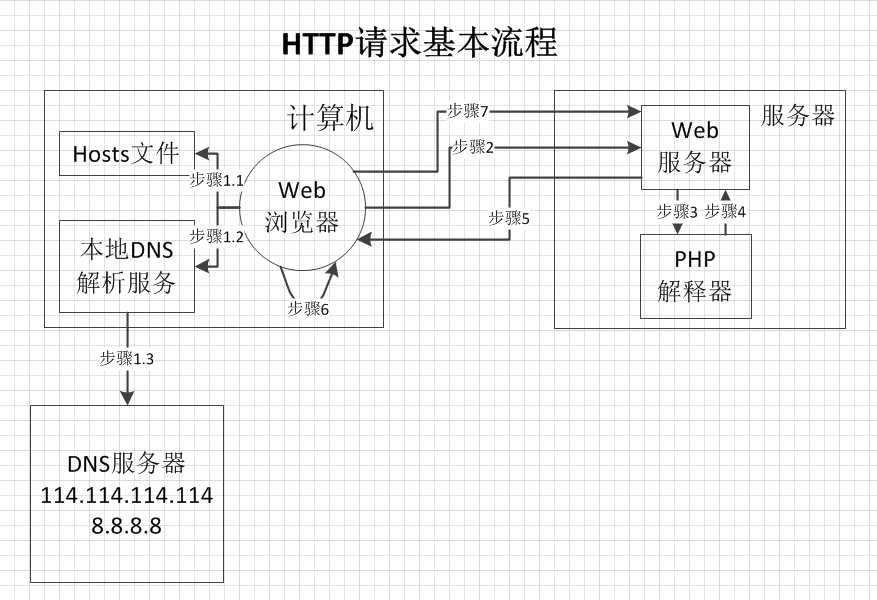
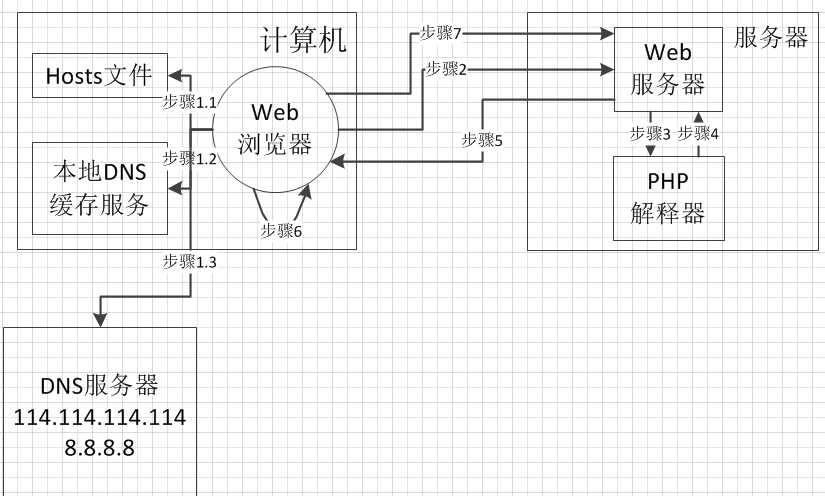
add

Changed region(s): [[0.0, 0.0, 1.0, 1.0], [0.8182, 0.756, 1.0, 0.877], [0.8182, 0.9073, 1.0, 0.998]]

diff --git a/Adapter0-初识编程/第8节  零基础学习PHP编程--基本概念详解之一——域名解析与DNS缓存.md b/Adapter0-初识编程/第8节  零基础学习PHP编程--基本概念详解之一——域名解析与DNS缓存.md
@@ -1,0 +1,125 @@
+基本概念详解一--域名解析与DNS缓存
+
+
+----------
+
+> 注意： 本文主要介绍了域名解析流程。
+
+> [访问源站](http://www.araryun.com "访问源站")
+
+> [转载请注明](http://www.araryun.com "转载请注明")
+
+----------
+
+
+一、 DNS是什么？
+
+DNS（Domain Name System，域名系统），万维网上作为域名和IP地址相互映射的一个分布式数据库，能够使用户更方便的访问互联网，而不用去记住能够被机器直接读取的IP数串。通过域名，最终得到该域名对应的IP地址的过程叫做域名解析（或主机名解析）。DNS协议运行在UDP协议之上，使用端口号53。在RFC文档中RFC 2181对DNS有规范说明，RFC 2136对DNS的动态更新进行说明，RFC 2308对DNS查询的反向缓存进行说明。
+
+DNS协议是应用层协议，事实上他是为其他应用层协议工作的，包括不限于HTTP和SMTP以及FTP，用于将用户提供的主机名解析为ip地址。
+
+
+域名是什么
+
+域名（英语：Domain Name），简称域名、网域，是由一串用点分隔的名字组成的Internet上某一台计算机或计算机组的名称，用于在数据传输时标识计算机的电子方位（有时也指地理位置）
+
+例如，www.wikipedia.org是一个域名，和IP地址208.80.152.2相对应。DNS就像是一个自动的电话号码簿，我们可以直接拨打wikipedia的名字来代替电话号码（IP地址）。我们直接调用网站的名字以后，DNS就会将便于人类使用的名字（如www.wikipedia.org）转化成便于机器识别的IP地址（如208.80.152.2）。
+
+
+域名划分
+
+顶级域名又称为根域名、一级域名、裸域名，一级域名中只含有一个“.”，且“.”左边要有内容字段。最后一个点的右边被称为一级域名，左边被称为二级域名，以此类推二级三级域名，一级域名又被称为顶级域名。
+
+顶级域名后缀列表：
+
+	.com：表示商业机构
+	.top：表示顶级、高端、事业突破
+	.xyz：表示创意创新、三维空间、无极限
+	.cx：表示创新、诚信
+	.red：表示吉祥、热情、勤奋
+	.net：表示网络服务机构
+	后缀名
+	后缀名
+	.org：表示非营利性组织
+	.gov：表示政府机构
+	.edu：表示教育机构
+	.mil：表示军事机构
+	.biz：表示商业机构
+	.name:表示个人网站
+	.info:表示信息提供
+	.mobi:专用手机域名
+	.国家缩写(如.cn):表示国家内部企业或个人
+
+
+二、 浏览器发送Http请求时的域名解析过程
+
+1、浏览器检查缓存中有没有该域名对应的IP地址，如果缓存中存在解析值，则直接将该IP返回
+
+2、如果浏览器缓存中没有，则去操作系统的DNS缓存服务中查找，再去hosts文件中查找
+
+3、如果操作系统缓存中没有 去local DNS Server（LDNS）本地DNS服务器中去找（比如 学校、小区里的互联网服务提供商电信联通的DNS服务器）
+
+4、若LDNS没有命中，去Root Server DNS服务器 根域名服务器中找
+
+5、返回给LDNS一个所查询域的主域名服务器地址gTLD Server(国际顶级域名服务器)如com、cn、org
+
+6、LDNS向gTLD发送请求
+
+7、gTLD返回给域名对应的Name Server
+
+8、Name Server（就是你注册的域名服务器）查询域名对应的IP 连同TTL值（缓存的时间由TTL值控制）返回给LDNS
+
+9、LNDS缓存域名与对应IP
+
+10、返给用户 根据TTL 缓存在本地系统缓存中
+
+![Http](./imgs/2018_05_23_x_001.jpg)
+
+DNS缓存记录会有一个ttl值(time to live)，单位是秒，意思是这个记录最大有效期是多少。经过实验，操作系统OS缓存会参考ttl值，但是不完全等于ttl值，而浏览器DNS缓存的时间跟ttl值无关，每种浏览器都使用一个固定值。 
+
+
+
+
+修改hosts文件原理
+
+在修改hosts文件后，所有OS中DNS缓存会被清空，而浏览器缓存则不发生变化。
+
+为什么修改hosts文件之后，有时会立刻生效，有时却一直不生效呢？其实原因很简单，这是因为浏览器缓存的过期时间，是从某个域名上次查询DNS记录开始计算的。
+
+例如：我在00秒的时候使用chrome访问过www.google.com.hk，此时浏览器DNS缓存产生，然后我修改了hosts文件，将www.google.com.hk指向本地127.0.0.1，然后在05秒的时候尝试再次访问这个地址，因为浏览器DNS缓存未过期，所以hosts修改无法体现出来。
+
+另一种情况下，很久都没有访问www.baidu.com了，然后我修改了hosts文件，将其指向127.0.0.1，这时因为浏览器没有DNS缓存，所以会查询操作系统中的DNS缓存，结果此时hosts文件生效！
+
+修改hosts之后，等2分钟，一般都会生效。
+
+
+
+
+三、DNS两种查询方式
+
+递归查询：
+
+主机向本地域名服务器的查询一般都是采用递归查询。
+
+递归查询是一种DNS server的查询模式，在该模式下DNS server接收到客户机请求。必须使用一个准确的查询结果回复客户机。假设DNS server本地没有存储查询DNS 信息，那么该server会询问其它server。并将返回的查询结果提交给客户机。
+
+如果主机所询问的本地域名服务器不知道被查询的域名的IP地址，那么本地域名服务器就以DNS客户的身份，向其根域名服务器继续发出查询请求报文(即替主机继续查询)，而不是让主机自己进行下一步查询。因此，递归查询返回的查询结果或者是所要查询的IP地址，或者是返回一个失败的响应，表示无法查询到所需的IP地址。
+
+迭代查询：
+
+本地域名服务器向根域名服务器的查询通常是采用迭代查询。
+
+DNS server第二种查询方式为迭代查询，DNS server会向客户机提供其它可以解析查询请求的DNS server地址，当客户机发送查询请求时，DNS server并不直接回复查询结果。而是告诉客户机还有一台DNS server地址，客户机再向这台DNS server提交请求，依次循环直到返回查询的结果。
+
+当根域名服务器收到本地域名服务器发出的迭代查询请求报文时，要么返回给本地域名服务器所要查询的IP地址，要么返回给本地域名服务器下一步应当查询的域名服务器的IP地址。
+
+
+
+
+【原】老生常谈-从输入url到页面展示到底发生了什么   http://www.cnblogs.com/xianyulaodi/p/6547807.html#_label3
+
+
+为什么修改hosts不立即生效？--浏览器DNS缓存机制分析    https://my.oschina.net/flashsword/blog/99068
+
+
+DNS解析的过程是什么，求详细的？   https://www.zhihu.com/question/23042131

diff --git a/Adapter0-初识编程/第5节  零基础学习PHP编程--详解Http请求流程.md b/Adapter0-初识编程/第5节  零基础学习PHP编程--详解Http请求流程.md
@@ -39,7 +39,7 @@
 
 1. 发起请求，浏览器先解析URL中的域名，一般来说，浏览器会首先查看本地硬盘的 hosts 文件，看看其中有没有和这个域名对应的规则，如果有的话就直接使用 hosts 文件里面的 ip 地址，hosts文件，在Linux系统中位于/etc/hosts，在Windows系统中位于C:\Windows\System32\drivers\etc\hosts。
 
-2. 如果在本地的 hosts 文件没有能够找到对应的 ip 地址，浏览器会发出一个 DNS请求给本地DNS服务，本地DNS服务向DNS服务器发送查询请求，DNS服务器一般是你的网络接入服务器商（ISP）提供，比如中国电信、联通和移动，也可以使用公共域名解析服务器114.114.114.114或Google提供的8.8.8.8；
+2. 如果在本地的 hosts 文件没有能够找到对应的 ip 地址，浏览器会询问本地DNS缓存服务，如果本地DNS缓存服务没有找到，浏览器则向DNS服务器发送查询请求DNS服务器一般是你的网络接入服务器商（ISP）提供，比如中国电信、联通和移动，也可以使用公共域名解析服务器114.114.114.114或Google提供的8.8.8.8；
 
 浏览器最终需要获取到服务器的IP以及端口，例如输入的域名是test.com， 发送的是http请求，若不指定端口号则使用默认的端口80，即完整的请求是test.com:80，如果Web服务器使用的端口是8080，则访问的请求URL应该为http://www.test.com:8080/test.php 
 
